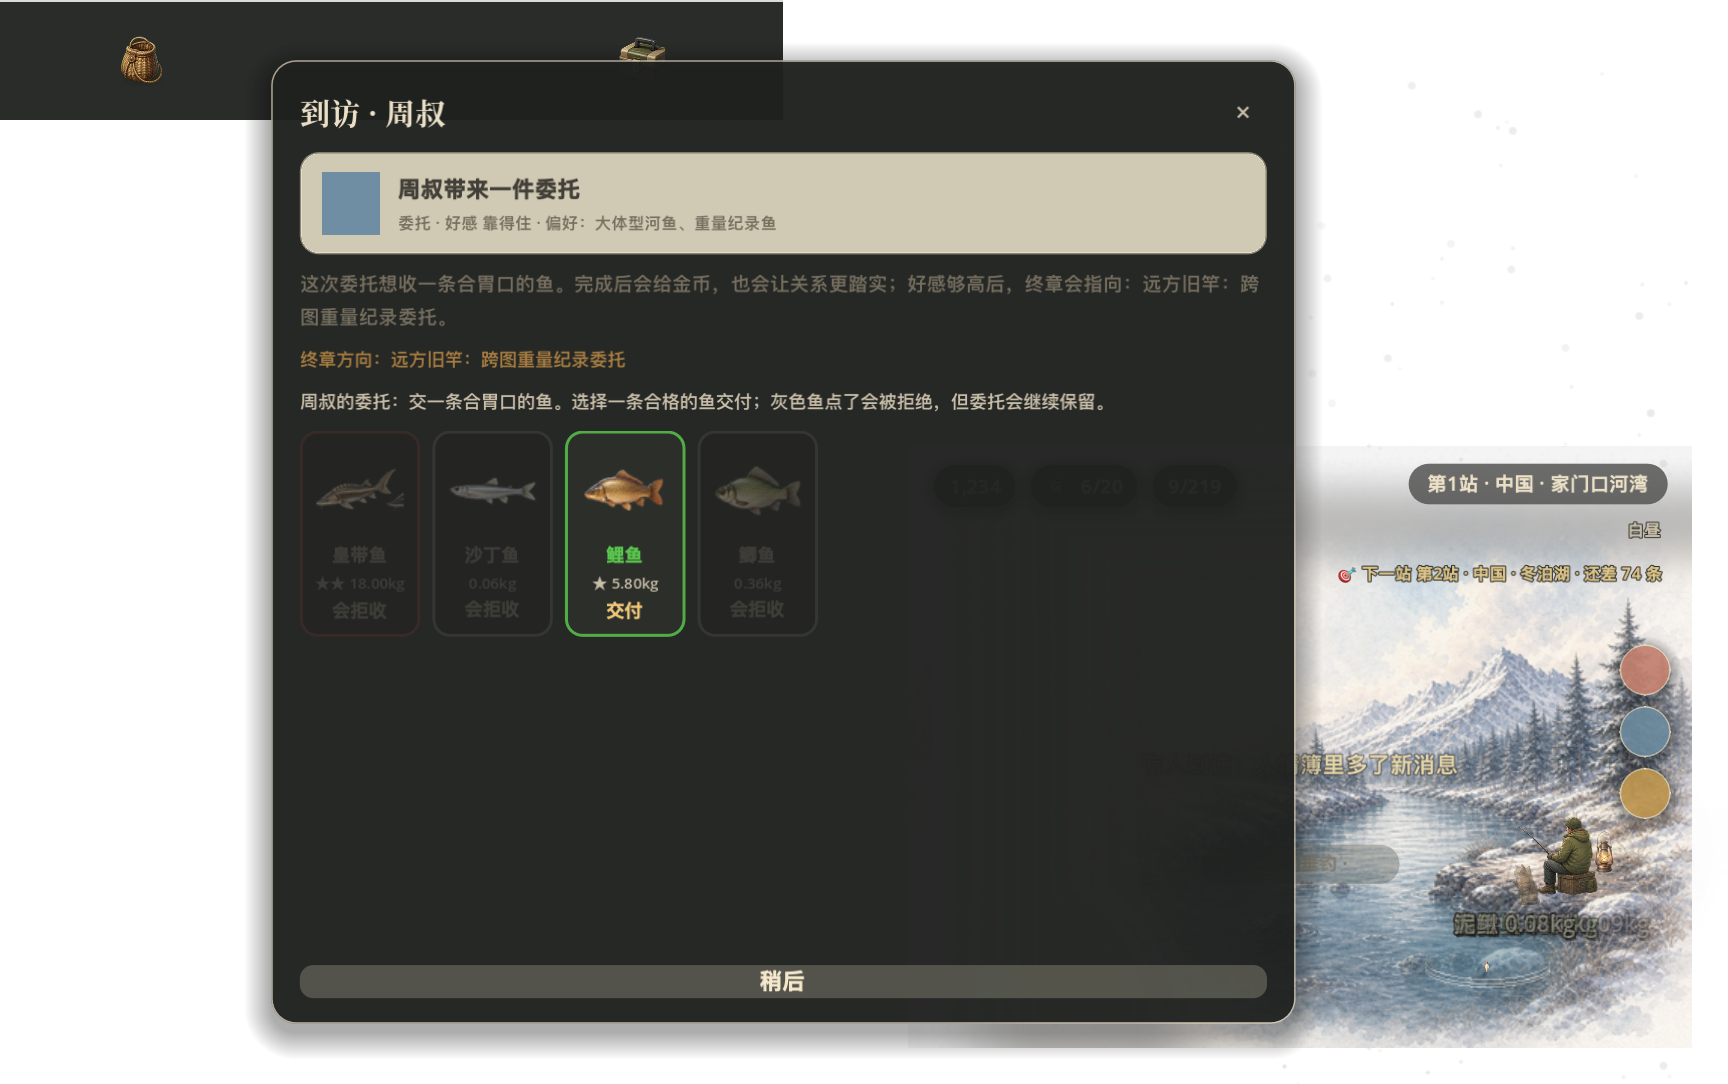
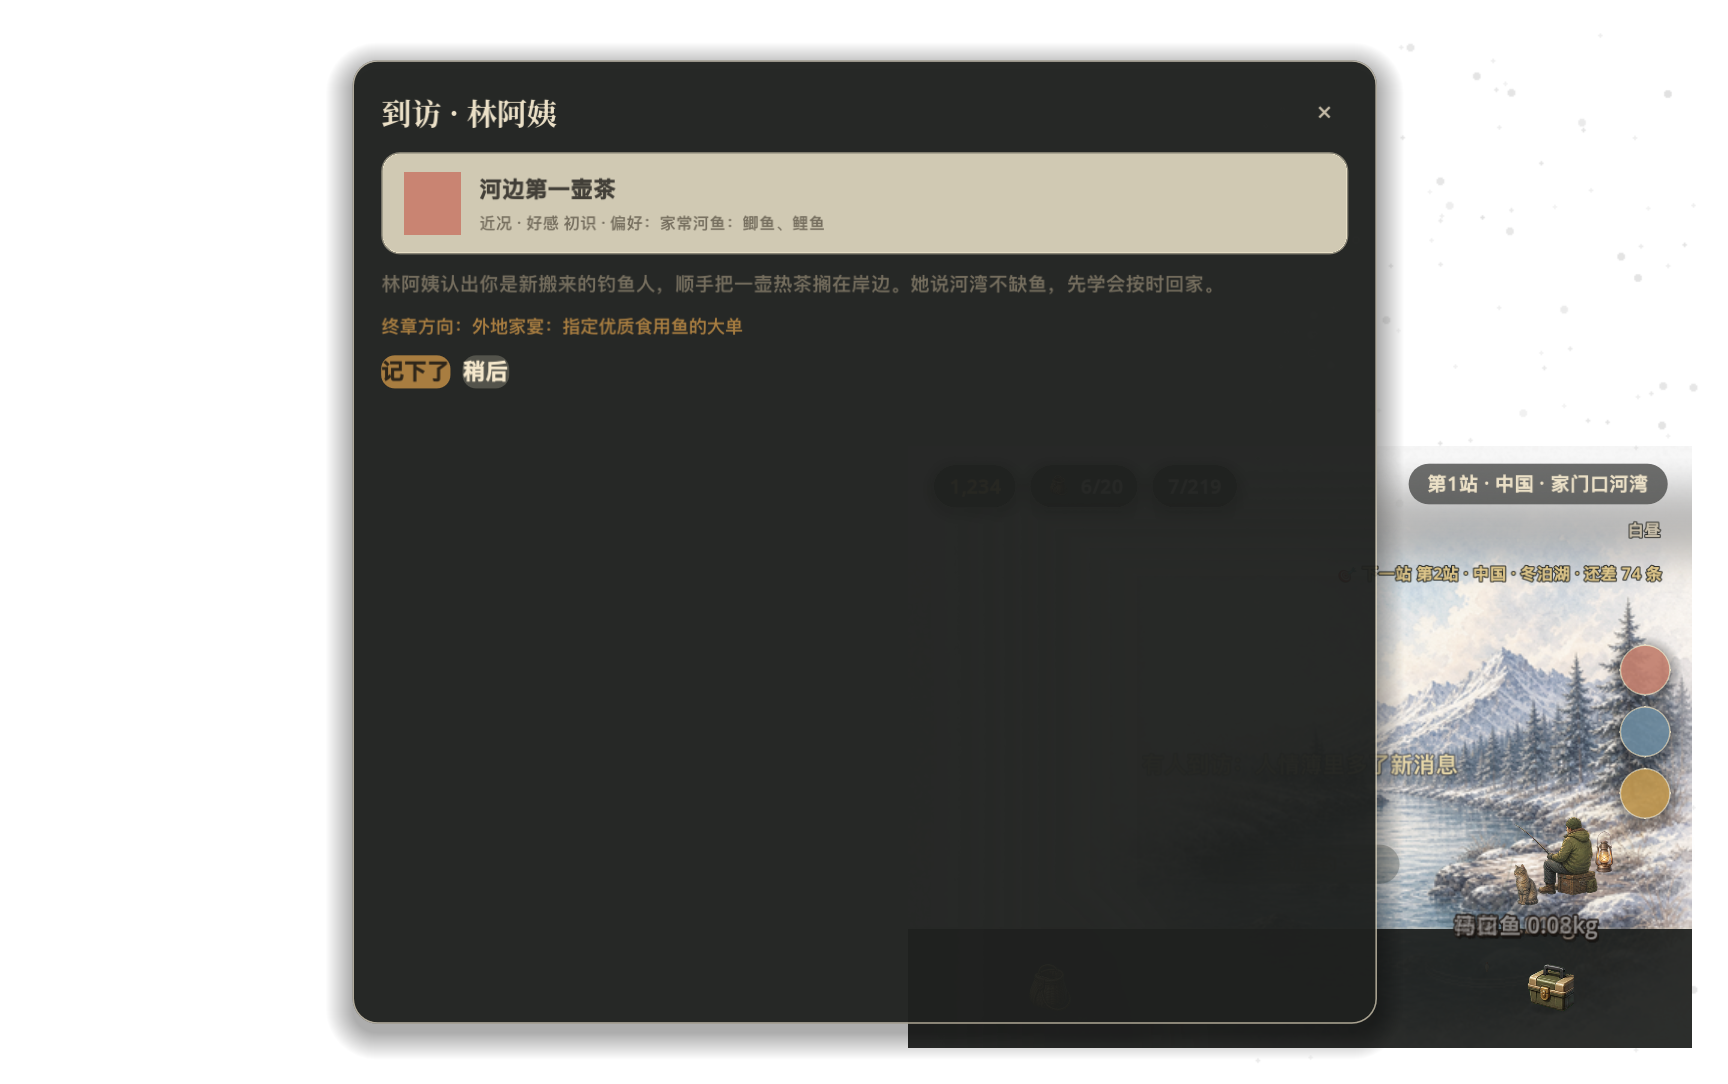
接入人情好感逐级事件池
普通委托与好感推进解耦，并以 v24 保存每位 NPC 的顺序已读进度。

Changed region(s): [[0.0, 0.0, 1.0, 0.9742], [0.25, 0.4262, 0.3125, 0.4566]]

diff --git a/docs/three-spot-linkage-design-huchao.md b/docs/three-spot-linkage-design-huchao.md
@@ -142,7 +142,8 @@
 
 - 本设计是未来地图系统提案，不改变当前路线图的“比赛材料与演示观感”焦点。
 - 雪线溪谷当前仍缺正式背景图；在该图视觉资产补齐前，不应将它作为玩家必须回访的强引导。
-- 已落地的第一阶段：v21 存档保存五位 NPC 的独立好感、到访队列、下一次到访时间、排程序号、当前人情 Buff 与终章完成状态；底部菜单有“人情”入口；右侧 HUD 显示最多 5 个纯色圆到访入口；点击可打开单条到访面板，承载提示、委托、Buff 或终章说明；到访面板内展示鱼篓，偏好鱼正常高亮，不合口味鱼灰化但仍可点击并触发拒收；Buff 到访可通过几句对话领取 10 分钟单槽限时增益；普通委托可交付一条偏好鱼，成功后消耗鱼并发金币与好感奖励，不合格只拒收且委托保留；至交后优先出现跨地点终章大单，要求河湾之外的指定鱼，完成后发高额金币并记录终章完成。
-- 测试模式已补“人情模块”调试面板：左侧开发入口第三个按钮打开，可召唤指定 NPC 的闲谈 / 委托 / Buff / 终章事件，mock 打开人情簿或到访面板、给偏好鱼、给终章鱼、调整好感、重置或完成终章。无头回归覆盖到访队列、送礼、Buff、委托、终章与调试入口。
+- 已落地的第一阶段：v21 存档保存五位 NPC 的独立好感、到访队列、下一次到访时间、排程序号、当前人情 Buff 与终章完成状态；底部菜单有“人情”入口；右侧 HUD 显示最多 5 个纯色圆到访入口；点击可打开单条到访面板，承载提示、委托、Buff 或终章说明；到访面板内展示鱼篓，偏好鱼正常高亮，不合口味鱼灰化但仍可点击并触发拒收；Buff 到访可通过几句对话领取 10 分钟单槽限时增益；普通委托可交付一条偏好鱼，成功后消耗鱼并只发金币，不合格只拒收且委托保留；只有成功送礼提升好感；至交后优先出现跨地点终章大单。
+- 测试模式已补“人情模块”调试面板：可召唤指定 NPC 的近况 / 闲谈 / 委托 / Buff / 终章事件，调整好感与人物事件已读进度，并 mock 偏好鱼与终章鱼。无头回归覆盖逐级事件池、跨级补读、送礼、Buff、委托与终章。
 - v23 补齐一次性终章的永久奖励：林阿姨／阿棠为收购类并消耗鱼，周叔／小满／马会长为纪录类且保留鱼；完成后分别保存家书纪念、老钓友船牌、跨城收购名片、高级标记许可、旅途联系人名册。船牌与许可的玩法效果留待水文台／放流簿阶段接入。
-- 下一阶段仍需单独设计和接入：好感逐级事件池、NPC 文本扩写、正式头像/立绘，以及普通人情委托与每日订单在 UI 和数值上的复用边界。
+- v24 接入初识到旧交共 30 条一次性人物事件；每人保存最高连续已读等级，跨级后仍按顺序补看。事件读完后，初识只轮换闲谈、点头之交开放委托、靠得住开放 Buff；至交终章优先于未读近况。
+- 下一阶段仍需单独设计和接入：NPC 文本扩写、正式头像/立绘，以及普通人情委托与每日订单在 UI 和数值上的复用边界。

diff --git a/BACKLOG.md b/BACKLOG.md
@@ -31,6 +31,7 @@
 
 ## ✅ 决策日志(关键拍板,最新在上 —— 防止反复纠结已否决的方向)
 
+- **2026-07-16** Owner 确认河湾好感逐级事件规则：普通委托只发金币，只有成功送礼提升好感；初识到旧交每级优先投放一条一次性人物事件，跨级后从最低未读事件依次补看；初识池只有闲谈，点头之交开放委托，靠得住开放招牌 Buff，至交优先一次性终章；人物事件读完后才进入当前等级允许的轮换池。v24 为每位 NPC 保存 `story_seen`，共接入 30 条阶段事件及测试工具。**为什么**：把人物关系推进从经济任务中剥离，并确保挂机或调试造成的跨级不会跳过人物成长内容。
 - **2026-07-16** Owner 确认河湾五条终章均为**一次性**，不解锁重复委托：林阿姨与阿棠是收购类，核验成功后消耗鱼；周叔、小满、马会长是纪录类，只登记且保留渔获，锁定鱼也可登记。终章分别永久写入家书纪念、老钓友船牌、跨城收购名片、高级标记许可、旅途联系人名册；船牌与标记许可现阶段只保存／展示，实际作用留待三钓点联动接入。存档升至 v23，v21/v22 已完成终章的档自动补发标记。**为什么**：终章应是唯一的人物关系收束，避免变成重复任务机；长期价值通过永久关系凭证和后续钓点联动兑现。
 - **2026-07-15** 修复河湾人情簿到访排程与设计不一致：从全系统共用一个 3 小时计时器改为五位 NPC 各自保存 `next_visit_at` / `visit_seq`；解锁时仍先出现一位熟人，其余人物一个冷却周期后均可到访，已有到访的 NPC 到期会更新自己的来意而非被跳过；存档升至 v22，并迁移 v21 的全局排程。**为什么**：全局轮询会让五人填满需要约 15 小时，也无法兑现“每人独立冷却、同一 NPC 更新状态”的原设计。
 - **2026-07-13** Windows 上“点收下/卖鱼后关闭/普通点击/最小化恢复后窗口打不开”统一定性为**透明覆盖窗 Region 生命周期故障**，不是各按钮分别触发最小化：`canvas_items + expand` 后挂件坐标仍是逻辑画布单位，却被直接传给 Win32 `SetWindowRgn` 的原生客户区像素；Windows 同时不绘制 Region 外内容，故进程仍在但画面被完整裁空。修复拍板：所有 Region 写入收敛到主节点单一出口，经 `get_viewport().get_final_transform()` 转换、向外取整并留 4px 恢复抖动余量；面板态清除自定义 Region；首次弹窗前等待窗口初始化；焦点恢复/尺寸/DPI 变化后延迟重算；退化 transform/零面积多边形拒绝写入并重试；背景拖动设 6px 物理阈值且面板打开时禁拖。卖鱼跨累计 300 金币时另有旧导航 hover lambda 捕获已释放节点，也一并改为带有效性检查的回调并重排新导航。**为什么**：这些触发器都汇入同一个错误 Region 出口，逐按钮打补丁无法覆盖缩放、显示器和系统恢复路径；窗口状态机 + 原生几何回归才是一劳永逸的边界。

diff --git a/ROADMAP.md b/ROADMAP.md
@@ -13,7 +13,7 @@
 > 2. 好玩 P1 候选(冰箱待捞):离线小结翻牌化 / 今日委托 / 饵料定向 / 跑掉的大鱼(白鲸)
 > 3. 参赛材料与演示观感(背景图/鱼美术)——降为好玩之后的次优先
 
-*数据快照(2026-07-08):219 鱼(99 有专属图标)· 10 钓点(仅 3 个有背景图,十站经纬度已入 `spot_data.GEO`)· 存档 v23 · 42 成就 · 7 事件*
+*数据快照(2026-07-08):219 鱼(99 有专属图标)· 10 钓点(仅 3 个有背景图,十站经纬度已入 `spot_data.GEO`)· 存档 v24 · 42 成就 · 7 事件*
 
 ---
 ## M0 核心循环垂直切片 ☑ 已完成
@@ -51,7 +51,7 @@
 - [x] **角色属性二级映射接入结算**(旧装备仍是主轴;属性软上限修正周期/品阶/星级/变体/双钩/体型,开发面板同步展示最终指标)✅ 2026-07-08
 - [x] **装备/金币大数化**(经济量改 double 浮点大数,极端值钳制到 `1e300`;装备页/HUD 改 `K/M/B/T/Qa/Qi...` 短格式,不再用中文万/亿)✅ 2026-07-09
 - [x] **底部系统渐进开放**(开局只显示设置;3 条鱼开放鱼篓;卖鱼 300 开装备;装备消费 10K 开任务;默认钓点半图鉴开图鉴;第二钓点条件开地图;极品鱼开鱼缸;测试台可手动开关功能;存档 **v20**)✅ 2026-07-09
-- [x] **河湾人情簿（分阶段首版）**：五位 NPC 配置、独立七级好感存档、人情入口、总览、挂机到访队列、右侧纯色圆入口、到访送礼、10 分钟单槽 Buff、偏好鱼委托、跨地点终章大单与调试面板均已接入（v21）；v22 改为每位 NPC 独立 3 小时到访排程；v23 为五条一次性终章补齐永久纪念／许可／联系人标记，收购类消耗鱼、纪录类保留鱼；后续继续扩写逐级事件池、人物文本／头像与三钓点联动效果。
+- [x] **河湾人情簿（分阶段首版）**：五位 NPC 配置、独立七级好感存档、人情入口、总览、挂机到访队列、右侧纯色圆入口、到访送礼、10 分钟单槽 Buff、偏好鱼委托、跨地点终章大单与调试面板均已接入（v21）；v22 改为每位 NPC 独立 3 小时排程；v23 补齐五条一次性终章永久标记；v24 加入初识到旧交共 30 条一次性人物事件、跨级顺序补读与分级事件池，普通委托改为只发金币、仅成功送礼提升好感；后续继续扩写人物文本／头像与三钓点联动效果。
 - [ ] **219 鱼美术补齐**(现 99 条有专属图标 → 缺 120;缺图自动回退品阶通用图标不崩)
 - [ ] **7 个新钓点背景图**(数据已配,缺干净底图;**其中雪线溪谷 mountain_stream / 下山进城 urban_pond 在退款窗口内可达,列入上架 DoD 必须有图**)
 - [x] **README 文案同步真实数字**(鱼 106→219、存档 v11→v12;钓点守 3 不虚报)✅ 2026-06-23

diff --git a/README.md b/README.md
@@ -125,9 +125,9 @@ godot --headless -s tools/balance_probe.gd
 
 ## 存档
 
-`user://corner_fishing_save.json`（当前 **v23**：v15 新增彩鳞/昨日收入锚/巨物赛累计夺金字段；v16 帧率默认 30→120 一次性迁移；v17 新增绕线轮等级；v18 新增鱼线/浮漂/探鱼器/钓鱼笔记/钓鱼手套等级；v19 图鉴补存破纪录日期 wd；v20 新增功能渐进开放状态与装备消费累计；v21 新增河湾人情簿五位 NPC 的独立好感、到访队列、当前人情 Buff 与终章完成状态；v22 将人情到访改为每位 NPC 独立排程；v23 新增五条一次性终章的永久纪念、许可与联系人标记，并为 v21/v22 已完成终章的存档补发）。每 10s 自动存 + 退出存 + 拖动后存 + 切钓点/陈列后存。
+`user://corner_fishing_save.json`（当前 **v24**：v15 新增彩鳞/昨日收入锚/巨物赛累计夺金字段；v16 帧率默认 30→120 一次性迁移；v17 新增绕线轮等级；v18 新增鱼线/浮漂/探鱼器/钓鱼笔记/钓鱼手套等级；v19 图鉴补存破纪录日期 wd；v20 新增功能渐进开放状态与装备消费累计；v21 新增河湾人情簿五位 NPC 的独立好感、到访队列、当前人情 Buff 与终章完成状态；v22 将人情到访改为每位 NPC 独立排程；v23 新增五条一次性终章的永久标记；v24 新增初识到旧交的逐级人物事件及每人独立已读进度，旧档从最低未读等级依次补看）。每 10s 自动存 + 退出存 + 拖动后存 + 切钓点/陈列后存。
 历次结构升级均向后兼容迁移（图鉴纪录轴、背包多元组、徽章、每日订单、多钓点、陈列、稀有变体、
-**活水族箱 / 首捕日 / 专注奖励 v11、诱饵窝料 v12、背包客角色 v13、鱼贩合约 v14、彩鳞与收入锚 v15、帧率默认迁移 v16、绕线轮速度装备 v17、属性装备链 v18、图鉴破纪录日期 v19、功能渐进开放 v20、河湾人情簿与到访事件 v21、NPC 独立到访排程 v22、一次性终章永久奖励 v23**），回归测试覆盖迁移。
+**活水族箱 / 首捕日 / 专注奖励 v11、诱饵窝料 v12、背包客角色 v13、鱼贩合约 v14、彩鳞与收入锚 v15、帧率默认迁移 v16、绕线轮速度装备 v17、属性装备链 v18、图鉴破纪录日期 v19、功能渐进开放 v20、河湾人情簿与到访事件 v21、NPC 独立到访排程 v22、一次性终章永久奖励 v23、好感逐级事件池 v24**），回归测试覆盖迁移。
 
 ## 路线图（未实现）
 
